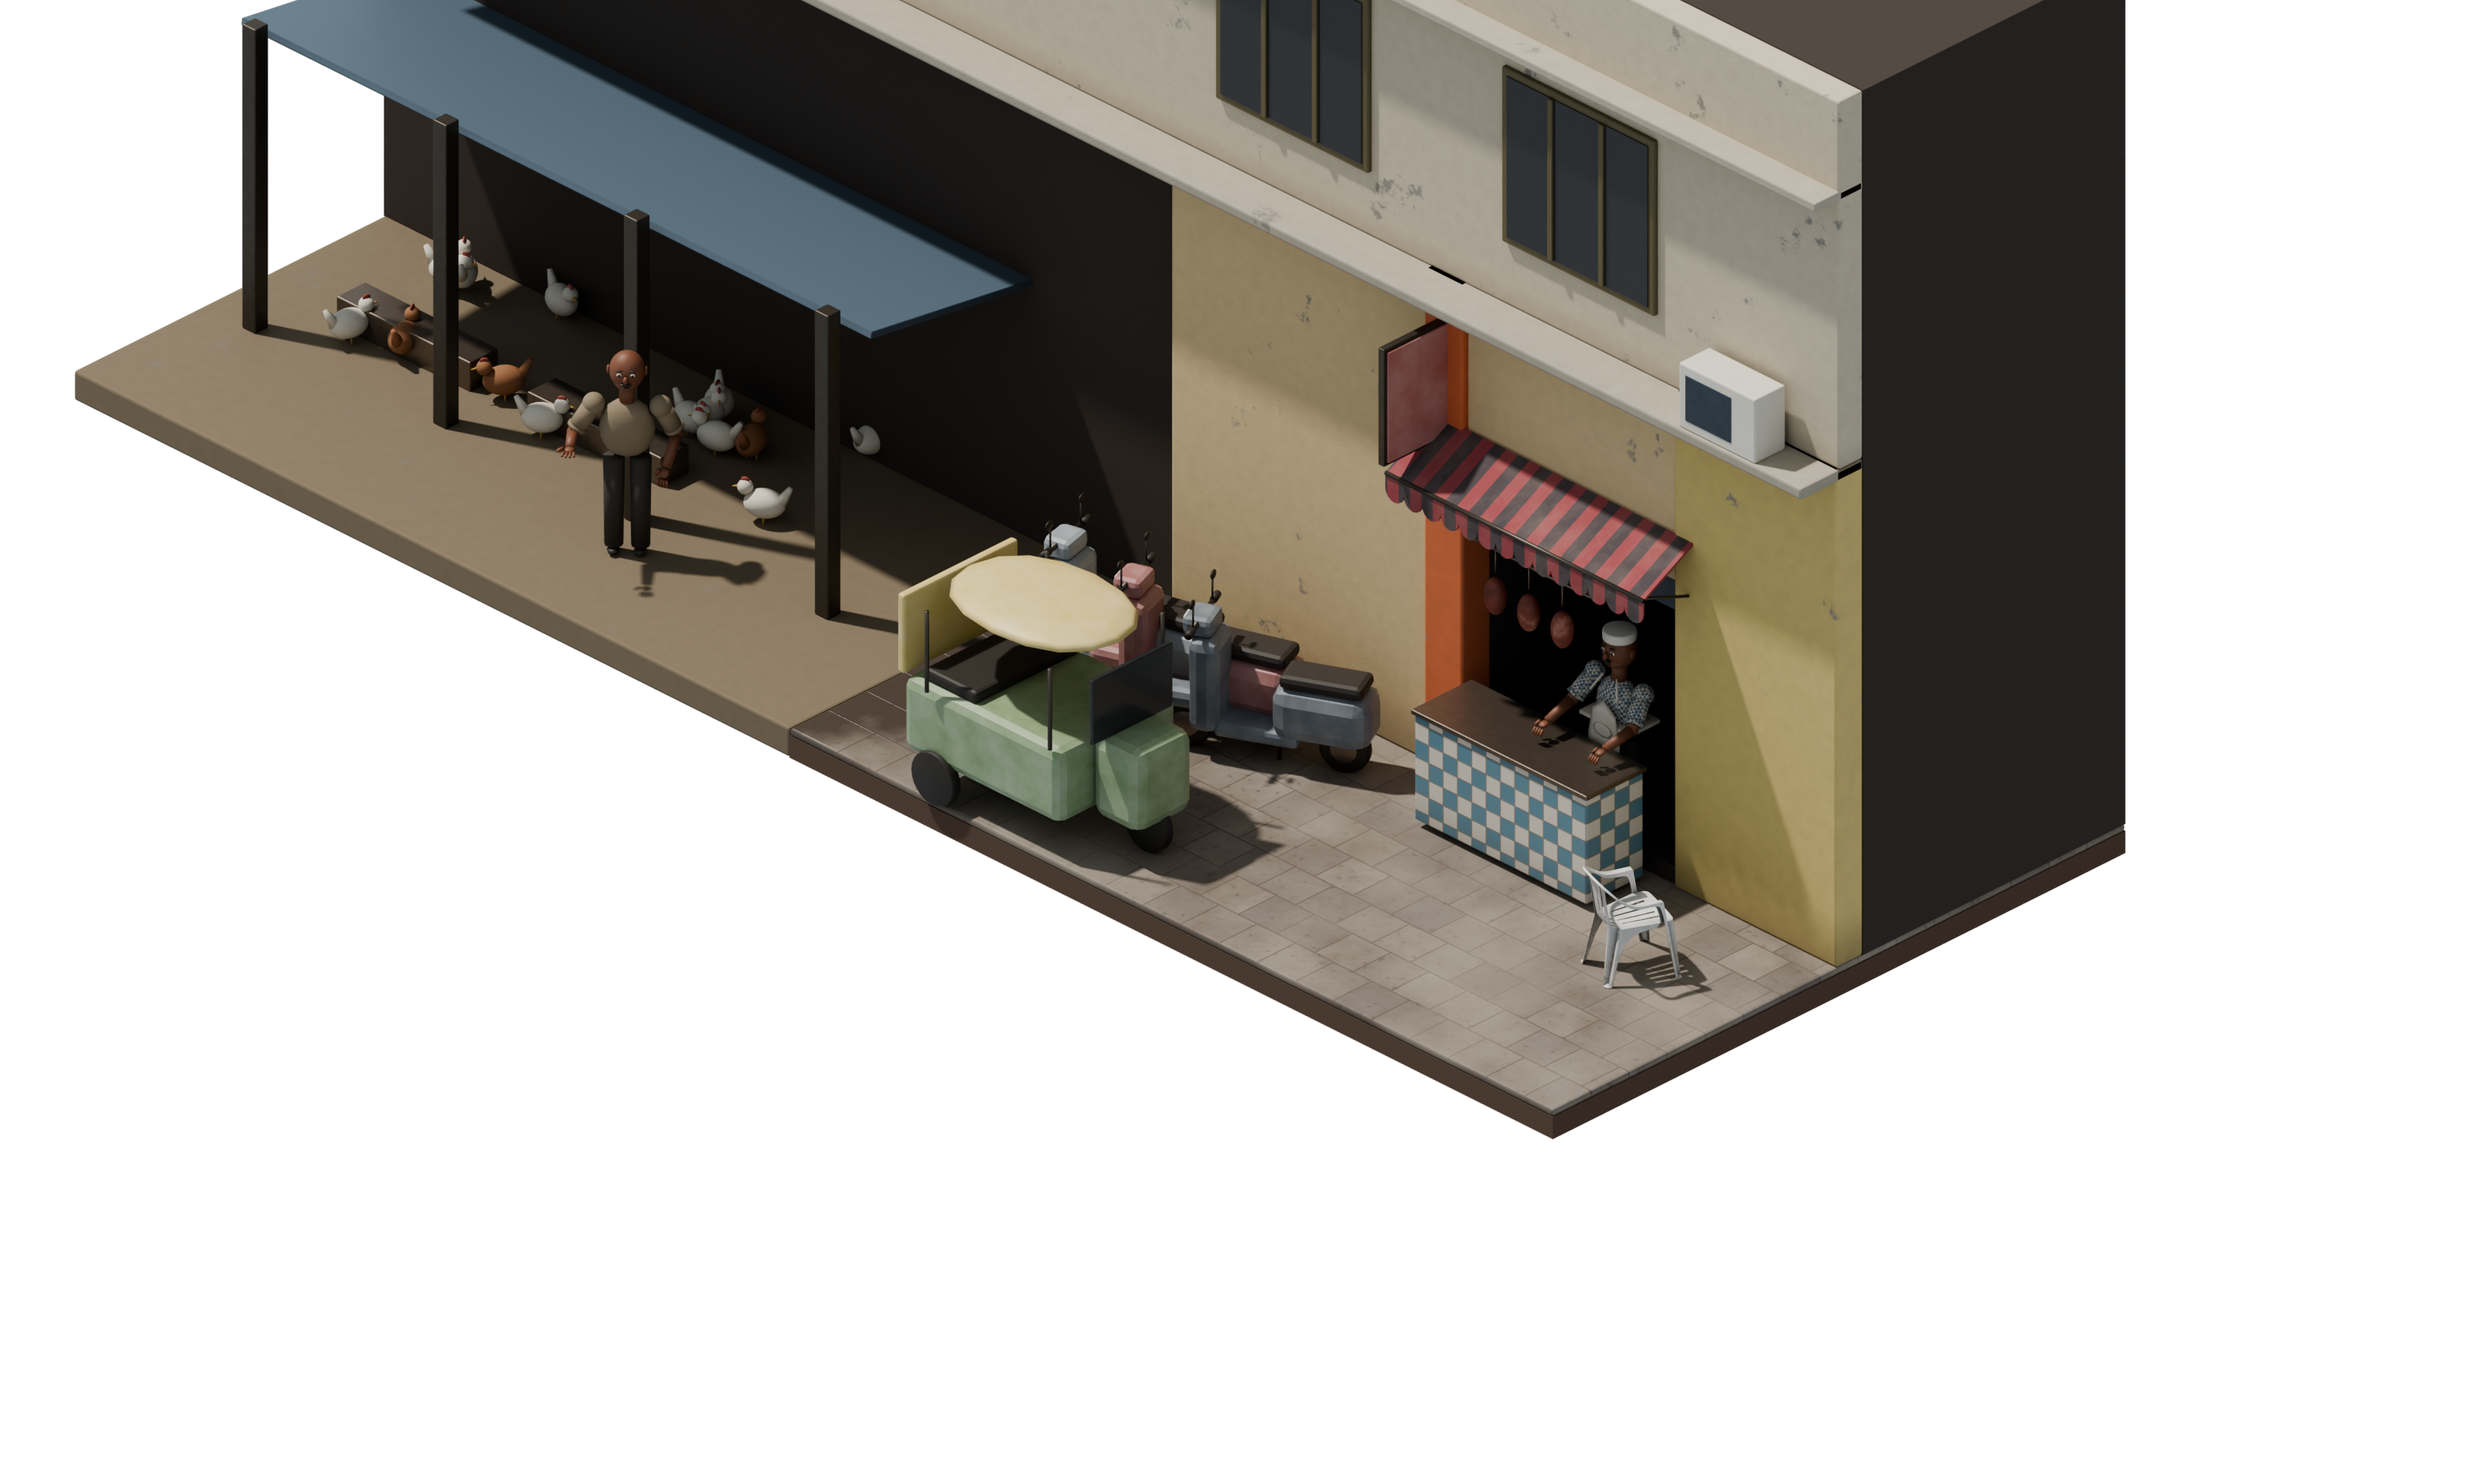
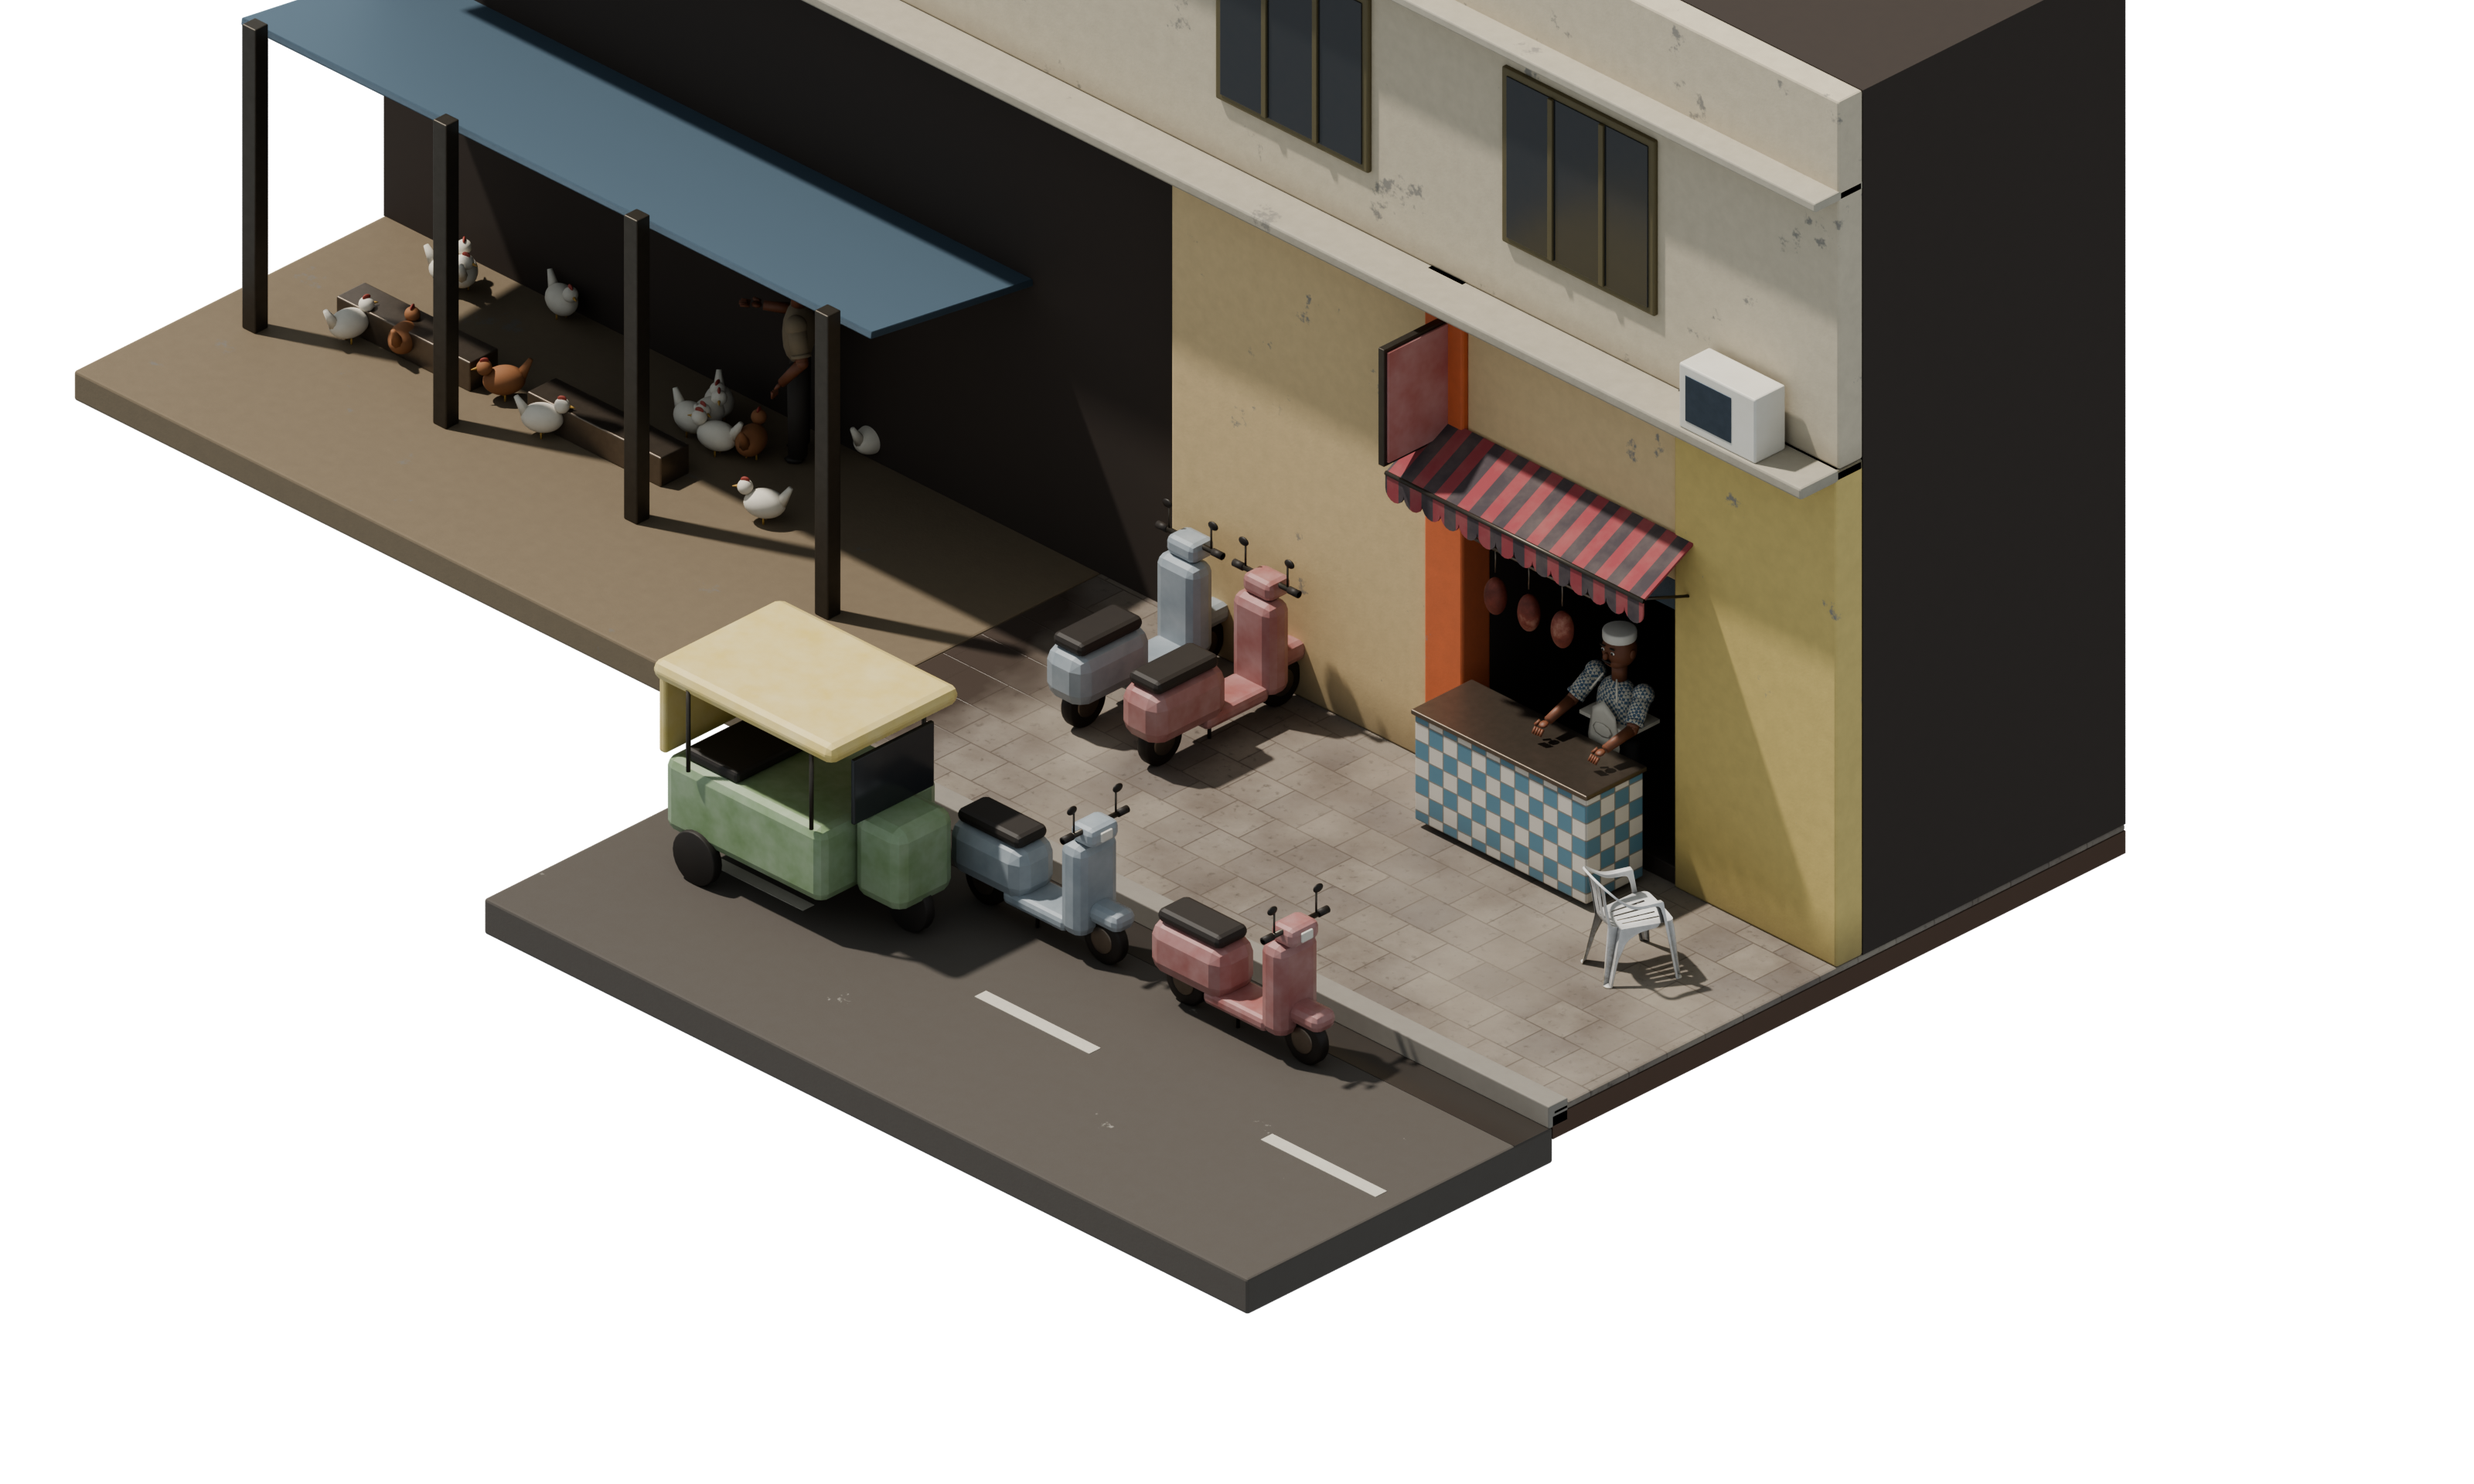
Atomic pack_layers; dev server ignores art/ while Blender saves
pack_layers.py writes into <id>.packing and swaps it in, so a running game never loads a
half-written station (s05 crashed on a missing layers.json mid-repack). The dev server no
longer watches art/, field/, review/ or docs/ (Blender's backup saves crashed it with EBUSY).

Changed region(s): [[0.1875, 0.2188, 0.6562, 0.9062], [0.3125, 0.2188, 0.3438, 0.25]]

diff --git a/tools/pack_layers.py b/tools/pack_layers.py
@@ -11,6 +11,7 @@ public/assets/stations/<id>/:
   layers.json         where each layer sits in the 1920x1080 frame, plus anchors
 """
 import json
+import shutil
 import sys
 from pathlib import Path
 
@@ -42,8 +43,12 @@ def glow_overlay(on, off, noise=10, gain=8):
 
 def main(station):
     src = ROOT / "art" / "build" / "renders" / station
-    out = ROOT / "public" / "assets" / "stations" / station
-    out.mkdir(parents=True, exist_ok=True)
+    final = ROOT / "public" / "assets" / "stations" / station
+    # write into a staging folder and swap it in at the end, so a running game never loads a
+    # half-written station (it crashed on a missing layers.json mid-repack)
+    out = final.with_name(station + ".packing")
+    shutil.rmtree(out, ignore_errors=True)
+    out.mkdir(parents=True)
     layers, files = {}, []
 
     def emit(name, im, box):
@@ -83,6 +88,12 @@ def main(station):
 
     (out / "layers.json").write_text(json.dumps({"frame": FRAME, "layers": layers, "anchors": anchors}, indent=2), encoding="utf-8")
     (out / "pack.json").write_text(json.dumps({station: {"files": files}}, indent=2), encoding="utf-8")
+    old = final.with_name(station + ".old")
+    shutil.rmtree(old, ignore_errors=True)
+    if final.exists():
+        final.rename(old)
+    out.rename(final)
+    shutil.rmtree(old, ignore_errors=True)
 
 
 if __name__ == "__main__":
